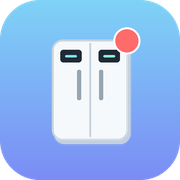
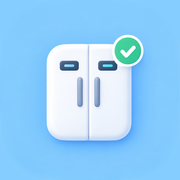
앱 아이콘 교체 (새 냉장고 아이콘), 캐시 v18
Claude-Session: https://claude.ai/code/session_01EV1YMtaboip5RkmrbfXn7t

diff --git a/public/sw.js b/public/sw.js
@@ -1,5 +1,5 @@
 // 새 버전을 먼저 받아오고, 인터넷이 안 될 때만 저장해 둔 화면을 보여줘요.
-const CACHE = "fridge-v17";
+const CACHE = "fridge-v18";
 self.addEventListener("install", e => { self.skipWaiting(); });
 self.addEventListener("activate", e => { e.waitUntil(self.clients.claim()); });
 self.addEventListener("fetch", e => {
